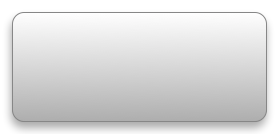
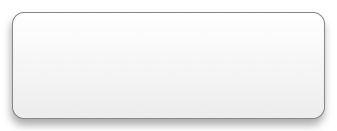
Style, refactoring, localization [badly]

diff --git a/HabraDash.dcproj/project/widget.wdgt/main.html b/HabraDash.dcproj/project/widget.wdgt/main.html
@@ -14,12 +14,12 @@
     <div id="front">
         <img id="frontImg" src="Parts/Images/front.png" alt="" apple-locked="true" apple-part="com.apple.Dashcode.part.frontimage" apple-style="image-theme: 1; image-shape: 3; image-opacity: 1.00; image-top-color: 1,1,1,1; image-bottom-color: 0.909305696,0.909305696,0.909305696,1; image-radius: 12,12,12,12; image-border: 1; image-border-color: 0.5294,0.5294,0.5294,1; image-border-width: 1; shine-strength: 0.90; shine-alpha-level: 0.67; shine-height: 0.50; glass-arc-height: 0.06; shadow-include-shadow: 1; shadow-offset: -1.00,-6.00; shadow-color: 0,0,0,0.3333;">
         <div class="apple-no-children" id="info" apple-part="com.apple.Dashcode.part.infobutton" apple-default-image-visibility="hidden"></div>
-        <div id="karmaCaption" apple-part="com.apple.Dashcode.part.text" class="apple-text apple-no-children" apple-default-image-visibility="hidden" apple-text-overflow="ellipsis"></div>
+        <div id="karmaCaption" apple-part="com.apple.Dashcode.part.text" class="apple-text apple-no-children" apple-default-image-visibility="hidden" apple-text-overflow="ellipsis" apple-style="part-height-dependent: true;part-width-dependent: true;"></div>
         <div id="ratingCaption" apple-part="com.apple.Dashcode.part.text" class="apple-text apple-no-children" apple-default-image-visibility="hidden" apple-text-overflow="ellipsis" apple-style="part-height-dependent: true;part-width-dependent: true;"></div>
         <div id="positionCaption" apple-part="com.apple.Dashcode.part.text" class="apple-text apple-no-children" apple-default-image-visibility="hidden" apple-text-overflow="ellipsis" apple-style="part-height-dependent: true;part-width-dependent: true;"></div>
         <div id="position" apple-part="com.apple.Dashcode.part.text" class="apple-text apple-no-children" apple-default-image-visibility="hidden" apple-text-overflow="ellipsis" apple-style="part-height-dependent: true;part-width-dependent: true;"></div>
-        <div id="rating" apple-part="com.apple.Dashcode.part.text" class="apple-text apple-no-children" apple-default-image-visibility="hidden" apple-text-overflow="ellipsis"></div>
-        <div id="karma" apple-part="com.apple.Dashcode.part.text" class="apple-text apple-no-children" apple-text-overflow="ellipsis" apple-default-image-visibility="hidden"></div>
+        <div id="rating" apple-part="com.apple.Dashcode.part.text" class="apple-text apple-no-children" apple-default-image-visibility="hidden" apple-text-overflow="ellipsis" apple-style="part-height-dependent: true;"></div>
+        <div id="karma" apple-part="com.apple.Dashcode.part.text" class="apple-text apple-no-children" apple-text-overflow="ellipsis" apple-default-image-visibility="hidden" apple-style="part-height-dependent: true;"></div>
         <div id="userName" apple-part="com.apple.Dashcode.part.text" class="apple-text apple-no-children" apple-default-image-visibility="hidden" apple-text-overflow="ellipsis" apple-style="part-height-dependent: true;"></div>
     </div>
     <div id="back">

diff --git a/HabraDash.dcproj/project/widget.wdgt/main.css b/HabraDash.dcproj/project/widget.wdgt/main.css
@@ -33,12 +33,11 @@ body {
 
 #backImg {
     position: absolute;
-    display: block;
     top: 0px;
     left: 0px;
     right: 0px;
-    width: auto;
     bottom: 0px;
+    width: auto;
     height: auto;
 }
 
@@ -56,8 +55,8 @@ body {
     font-family: HelveticaNeue;
     font-size: 10pt;
     left: 32px;
-    width: 125px;
     top: 69px;
+    width: 159px;
 }
 
 #nameEditCaption {
@@ -104,11 +103,11 @@ body {
     position: absolute;
     margin-top: 0px;
     color: rgb(204, 102, 204);
-    left: 165px;
     top: 38px;
+    font-size: 10px;
+    left: 211px;
     width: auto;
     height: auto;
-    font-size: 10px;
 }
 
 .selected #ratingCaption {
@@ -123,8 +122,8 @@ body {
     position: absolute;
     margin-top: 0px;
     color: rgb(102, 102, 102);
-    top: 100px;
-    left: 135px;
+    top: 103px;
+    left: 24px;
     width: auto;
     height: auto;
 }
@@ -141,8 +140,8 @@ body {
     position: absolute;
     margin-top: 0px;
     color: rgb(102, 102, 102);
-    left: 207px;
-    top: 100px;
+    top: 103px;
+    left: 89px;
     width: auto;
     height: auto;
 }
@@ -152,18 +151,19 @@ body {
 }
 
 #rating {
-    text-overflow: ellipsis;
     overflow: hidden;
     position: absolute;
     margin-top: 0px;
     color: rgb(204, 102, 204);
     font-weight: bold;
     font-family: 'Lucida Grande';
+    font-size: 36px;
+    text-align: center;
+    left: 138px;
     top: 55px;
-    left: 182px;
+    right: 19px;
     width: auto;
     height: auto;
-    font-size: 36px;
 }
 
 .selected #rating {
@@ -171,18 +171,19 @@ body {
 }
 
 #karma {
-    text-overflow: ellipsis;
     overflow: hidden;
     position: absolute;
     margin-top: 0px;
     color: rgb(102, 204, 102);
     font-weight: bold;
     font-family: 'Lucida Grande';
-    left: 73px;
     top: 55px;
+    font-size: 36px;
+    text-align: center;
+    left: 12px;
+    right: 200px;
     width: auto;
     height: auto;
-    font-size: 36px;
 }
 
 .selected #karma {
@@ -200,11 +201,11 @@ body {
     font-weight: bold;
     font-family: 'Lucida Grande';
     left: 27px;
-    top: 21px;
+    text-align: center;
+    top: 18px;
     right: 26px;
     width: auto;
     height: auto;
-    text-align: center;
 }
 
 .selected #userName {
@@ -216,8 +217,6 @@ body {
     right: auto;
     bottom: auto;
     margin-top: 0px;
-    top: 13px;
-    left: 169px;
     width: 85px;
     height: 79px;
     border-top-left-radius: 0px;
@@ -225,6 +224,8 @@ body {
     border-bottom-left-radius: 0px;
     border-bottom-right-radius: 0px;
     opacity: 1;
+    top: 13px;
+    left: 215px;
 }
 
 #inner_image {

diff --git a/HabraDash.dcproj/project/widget.wdgt/main.js b/HabraDash.dcproj/project/widget.wdgt/main.js
@@ -49,6 +49,22 @@ function setUserName(name)
 }
 
 //-------------------------------------------------//
+function loadPrefs()
+{
+    var name = widget.preferenceForKey(widget.identifier + "-" + preferenceKey);
+    log(widget.identifier + "-" + preferenceKey);
+    log("name from preferences: " + name);
+    if (name != null)
+        setUserName(name);
+
+}
+
+function savePrefs()
+{
+    widget.setPreferenceForKey(userName(), widget.identifier + "-" + preferenceKey);
+}
+
+//-------------------------------------------------//
 function resetStats()
 {
     setLogin("<none>");
@@ -126,25 +142,24 @@ function load()
 {
     dashcode.setupParts();
     resetStats();
-    var name = widget.preferenceForKey(widget.identifier + "-" + preferenceKey);
-    log("name from preferences: " + name);
-    if (name != null)
-        setUserName(name);
+    loadPrefs();
 }
 
 function remove()
 {
-    widget.setPreferenceForKey(userName(), widget.identifier + "-" + preferenceKey);
     stopTimer();
+    savePrefs();
 }
 
 function hide()
 {
     stopTimer();
+    savePrefs();
 }
 
 function show()
 {
+    loadPrefs();
     startTimer(50);
 }
 

diff --git a/HabraDash.dcproj/project/widget.wdgt/ru.lproj/localizedStrings.js b/HabraDash.dcproj/project/widget.wdgt/ru.lproj/localizedStrings.js
@@ -5,11 +5,12 @@
  code generator otherwise the changes will be lost.
  */
 var localizedStrings = {
-    "Done": "Done",
-    "Habrauser:": "Habrauser:",
-    "Karma:": "Karma:",
-    "Position:": "Position:",
-    "Rating:": "Rating:"
+    "Done": "Готово",
+    "Habrauser:": "Хабраюзер:",
+    "Karma:": "Карма:",
+    "Position:": "Позиция:",
+    "Rating:": "Рейтинг:"
 };
+
 
 
